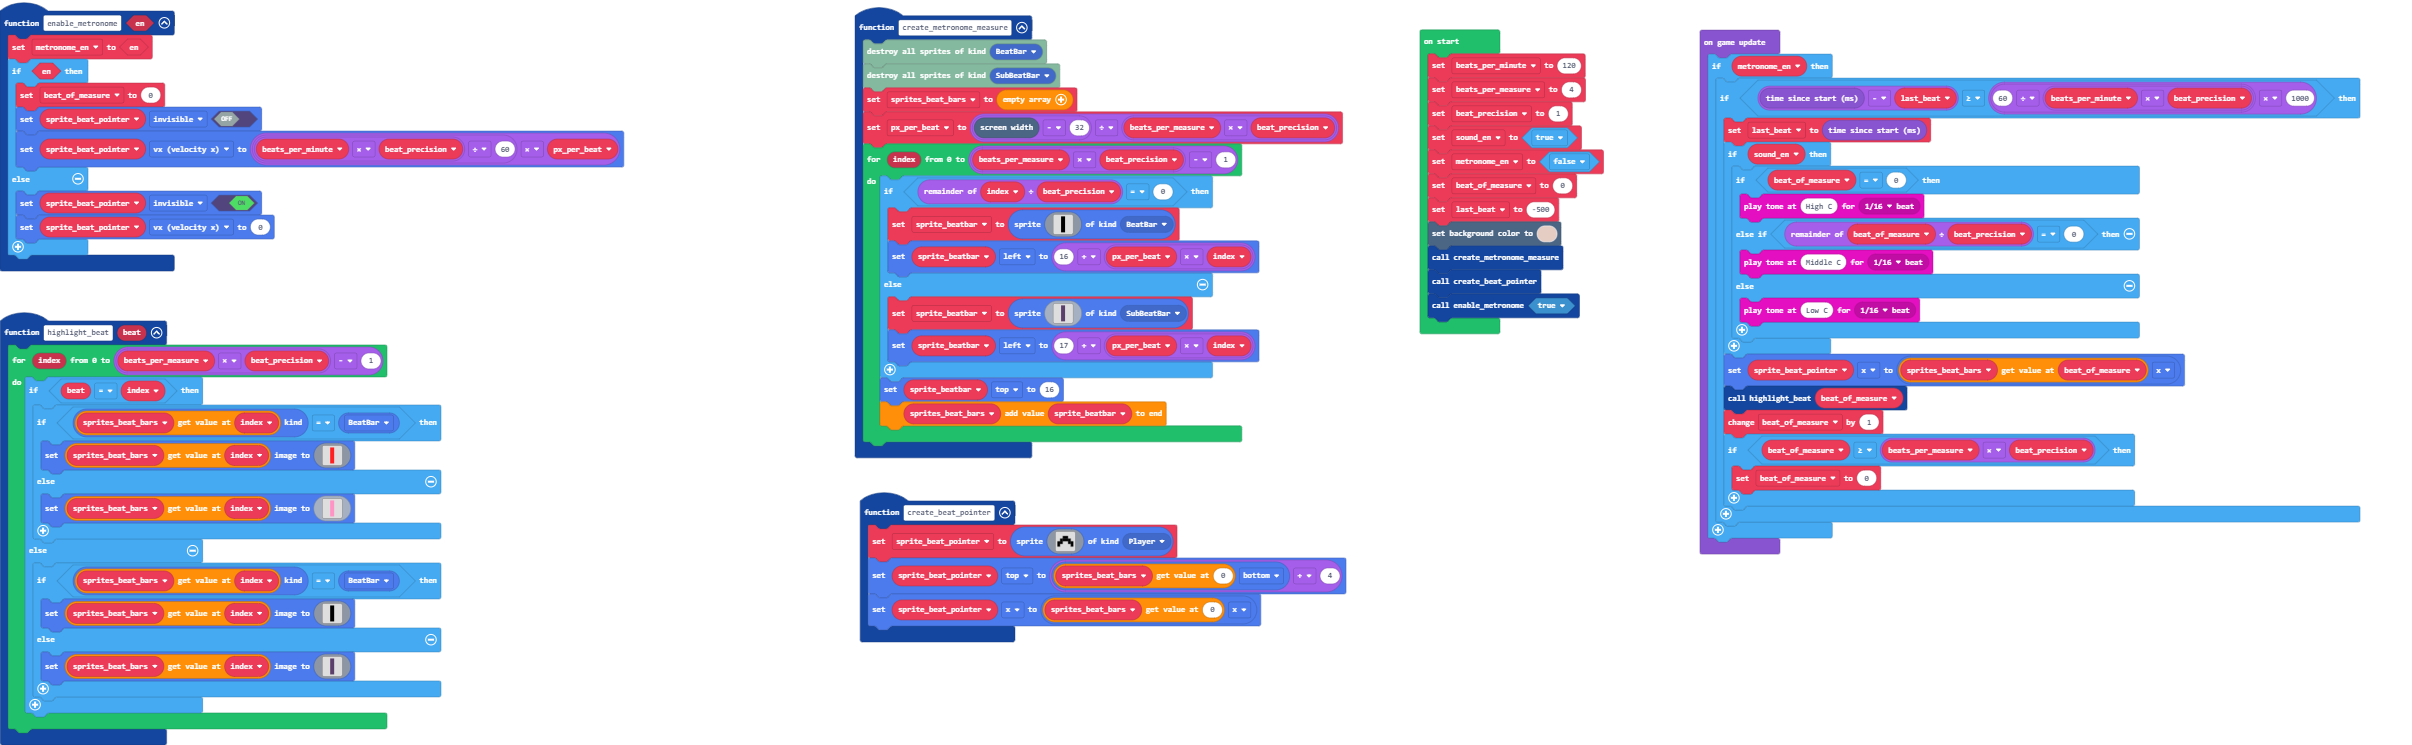
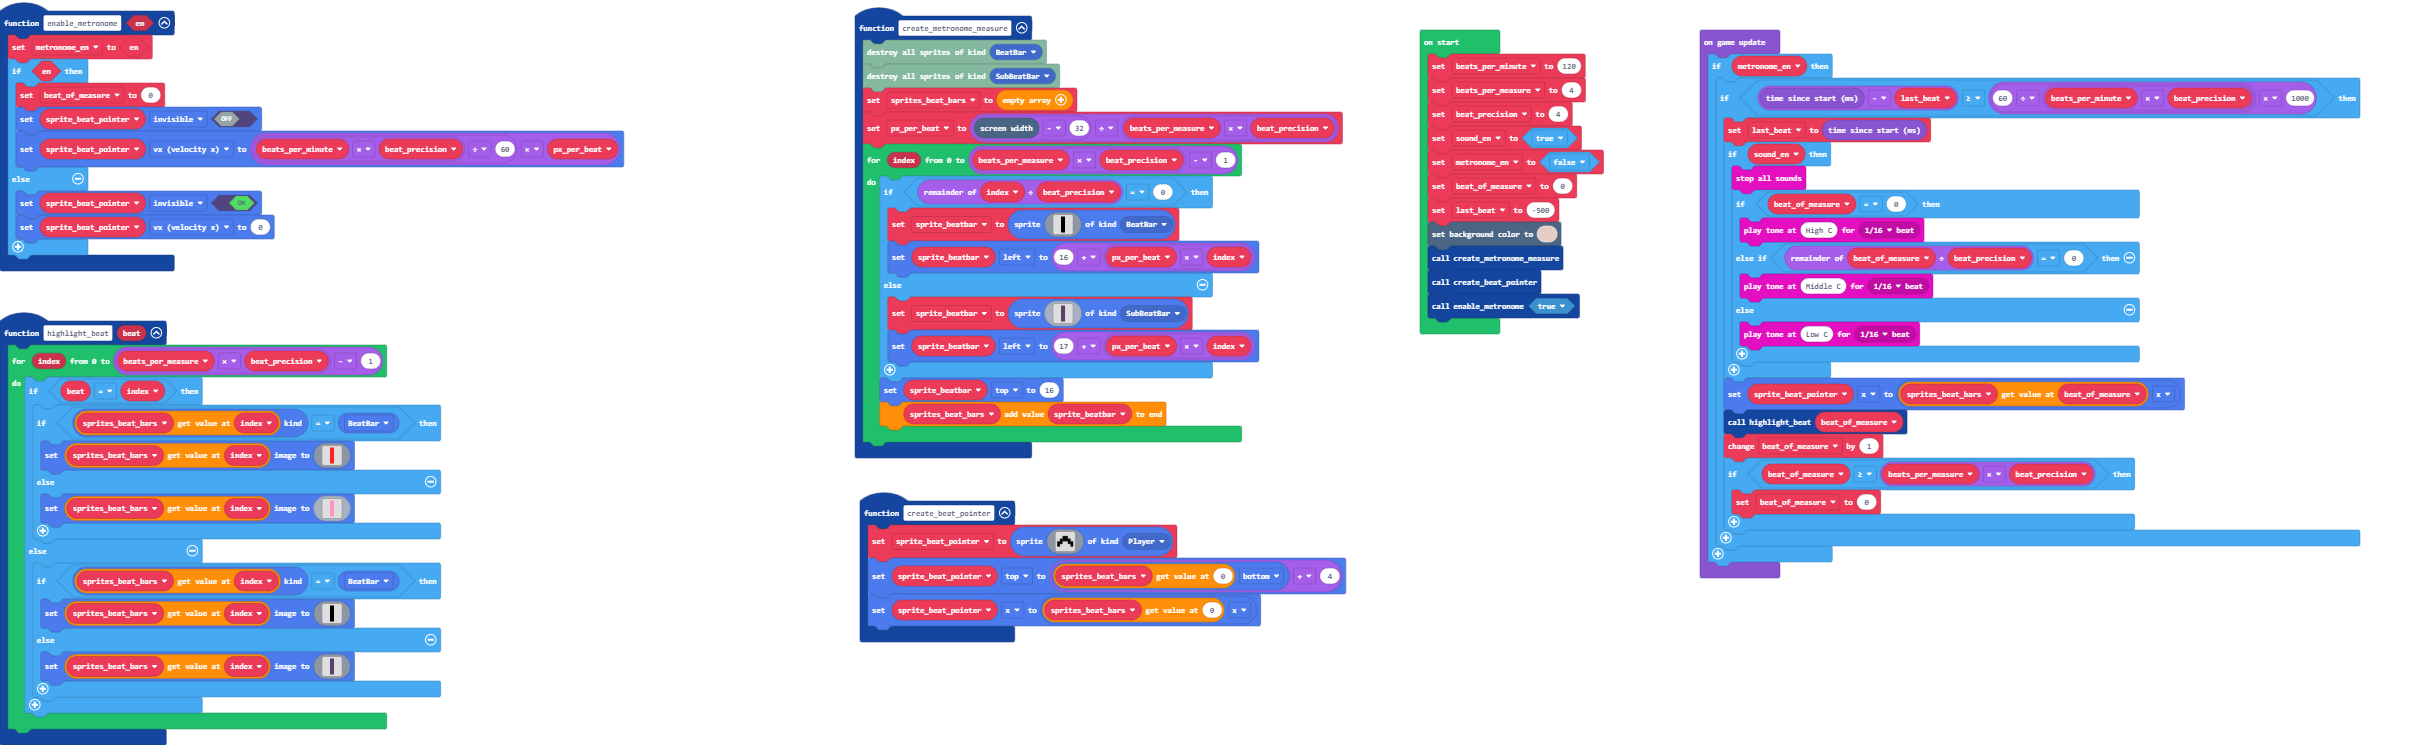
Remove timers

diff --git a/main.ts b/main.ts
@@ -63,7 +63,7 @@ let beats_per_measure = 0
 let beats_per_minute = 0
 beats_per_minute = 120
 beats_per_measure = 4
-beat_precision = 1
+beat_precision = 4
 let sound_en = true
 metronome_en = false
 beat_of_measure = 0
@@ -77,6 +77,7 @@ game.onUpdate(function () {
         if (game.runtime() - last_beat >= 60 / (beats_per_minute * beat_precision) * 1000) {
             last_beat = game.runtime()
             if (sound_en) {
+                music.stopAllSounds()
                 if (beat_of_measure == 0) {
                     music.playTone(523, music.beat(BeatFraction.Sixteenth))
                 } else if (beat_of_measure % beat_precision == 0) {
